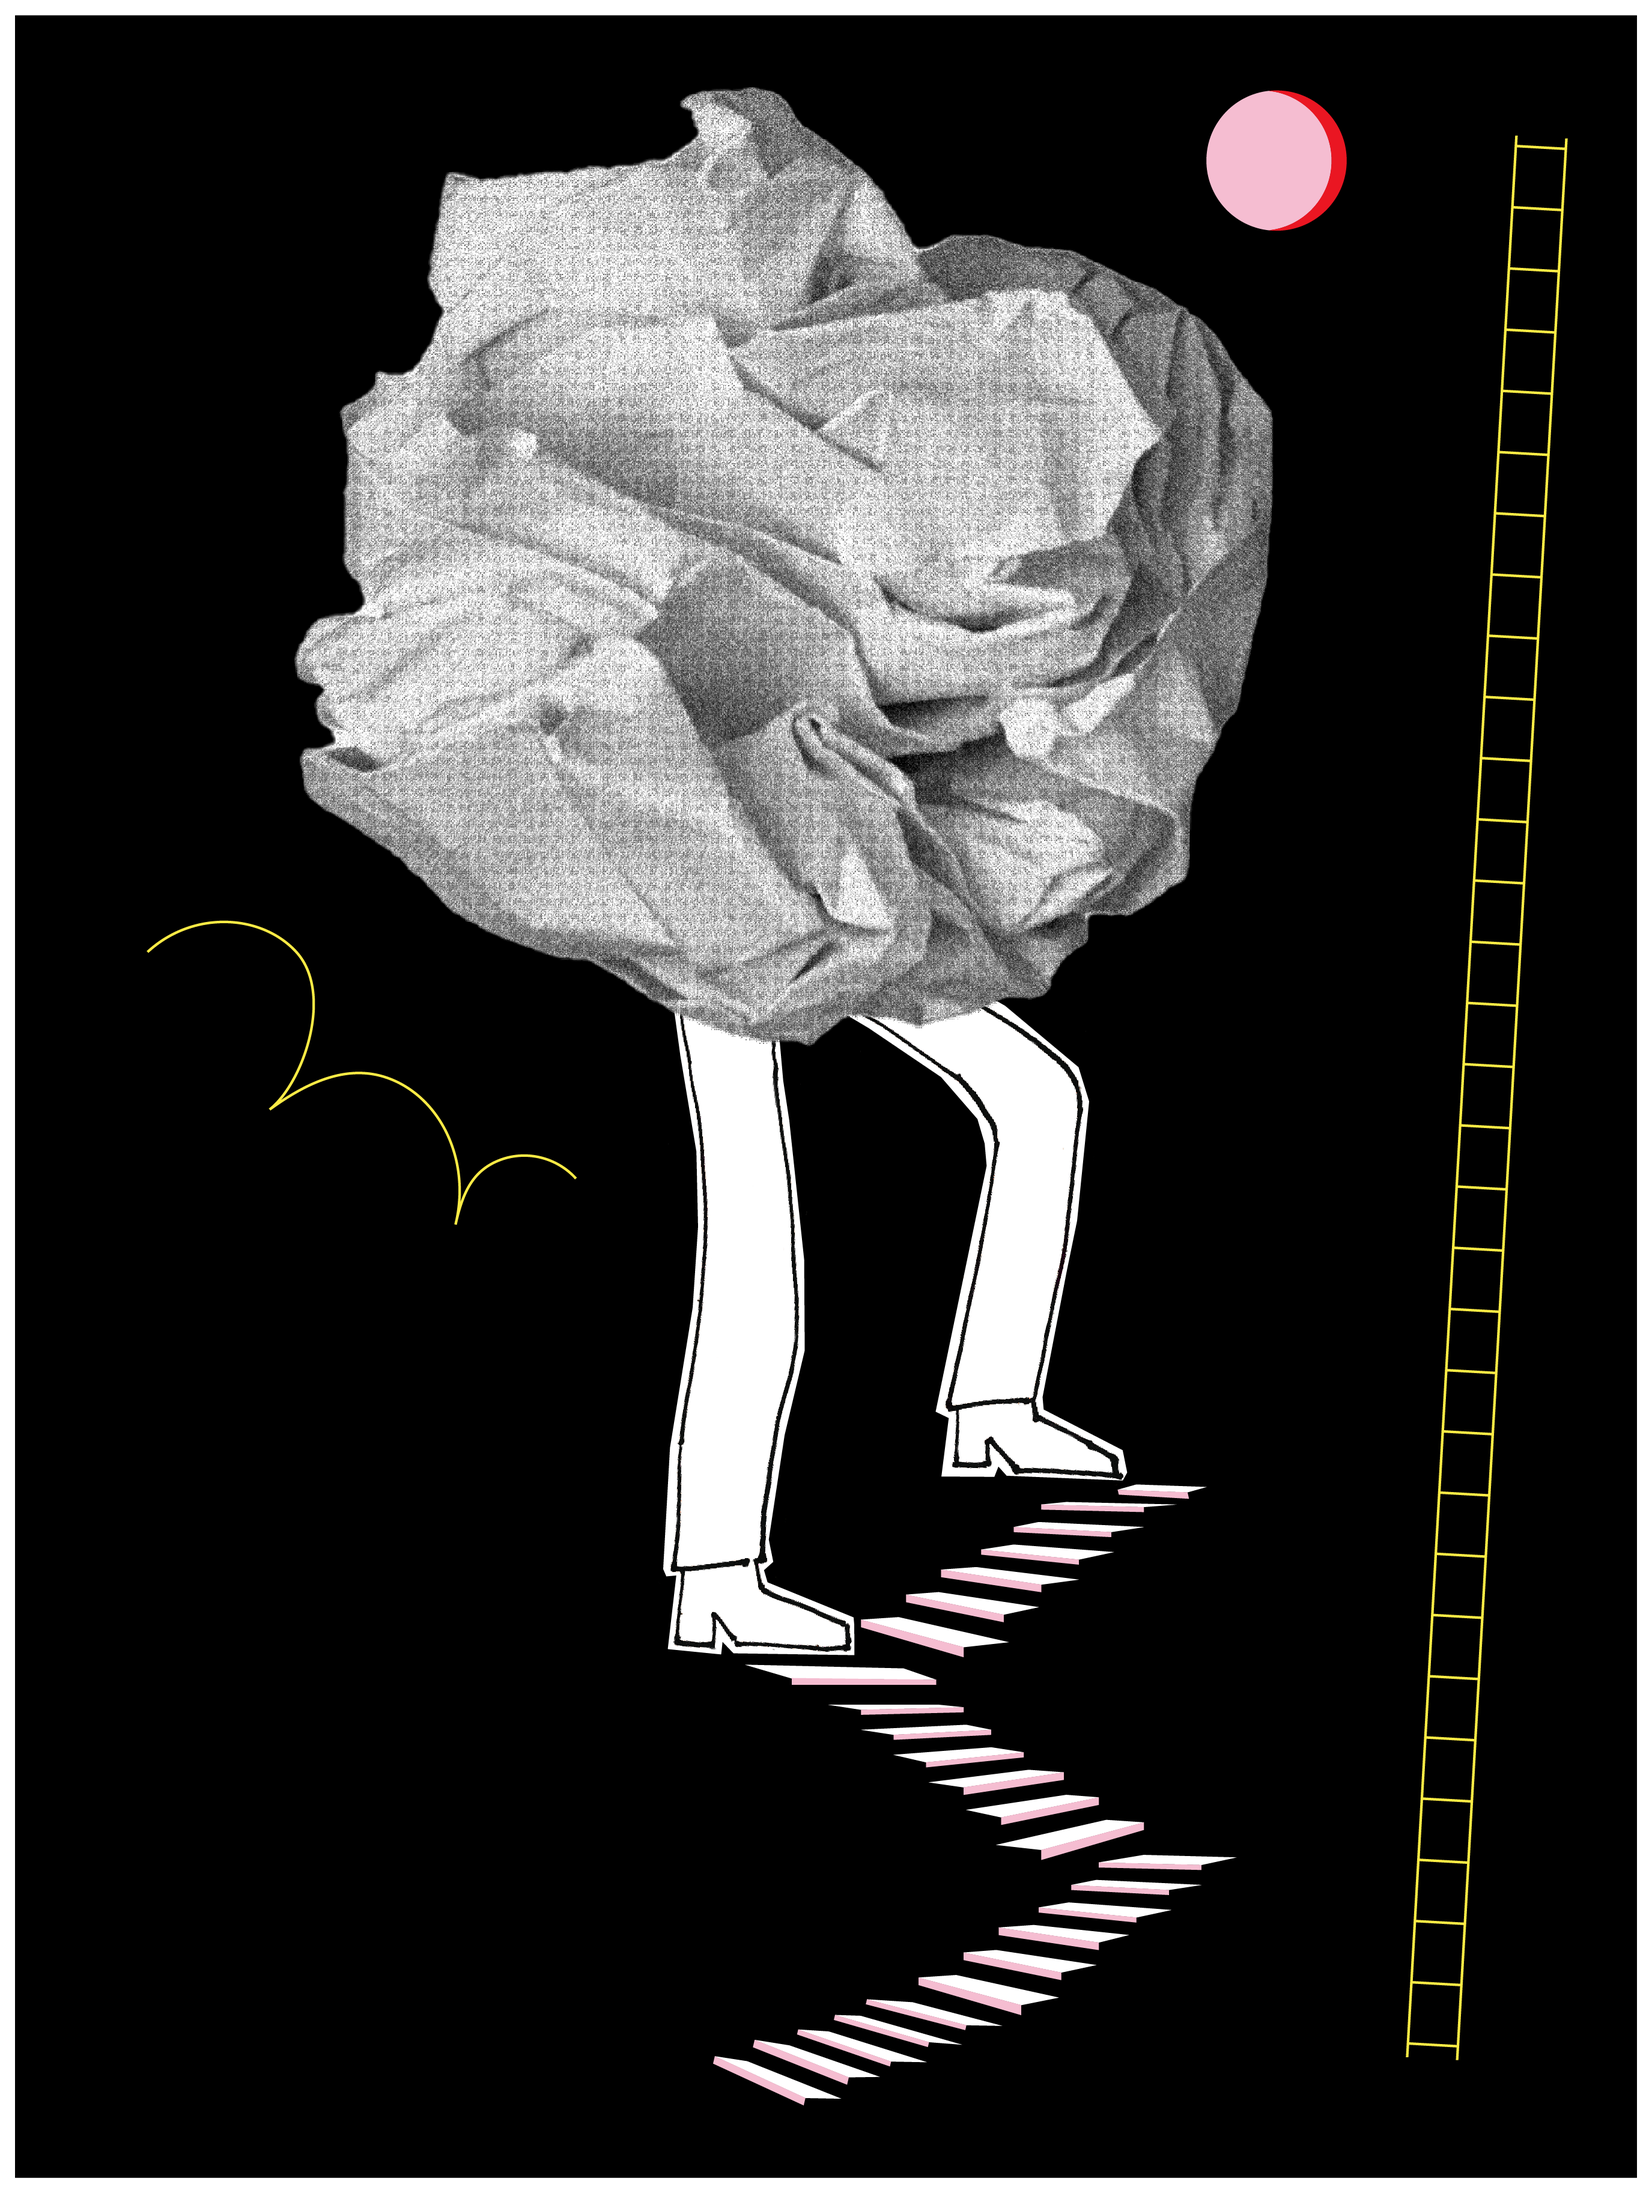
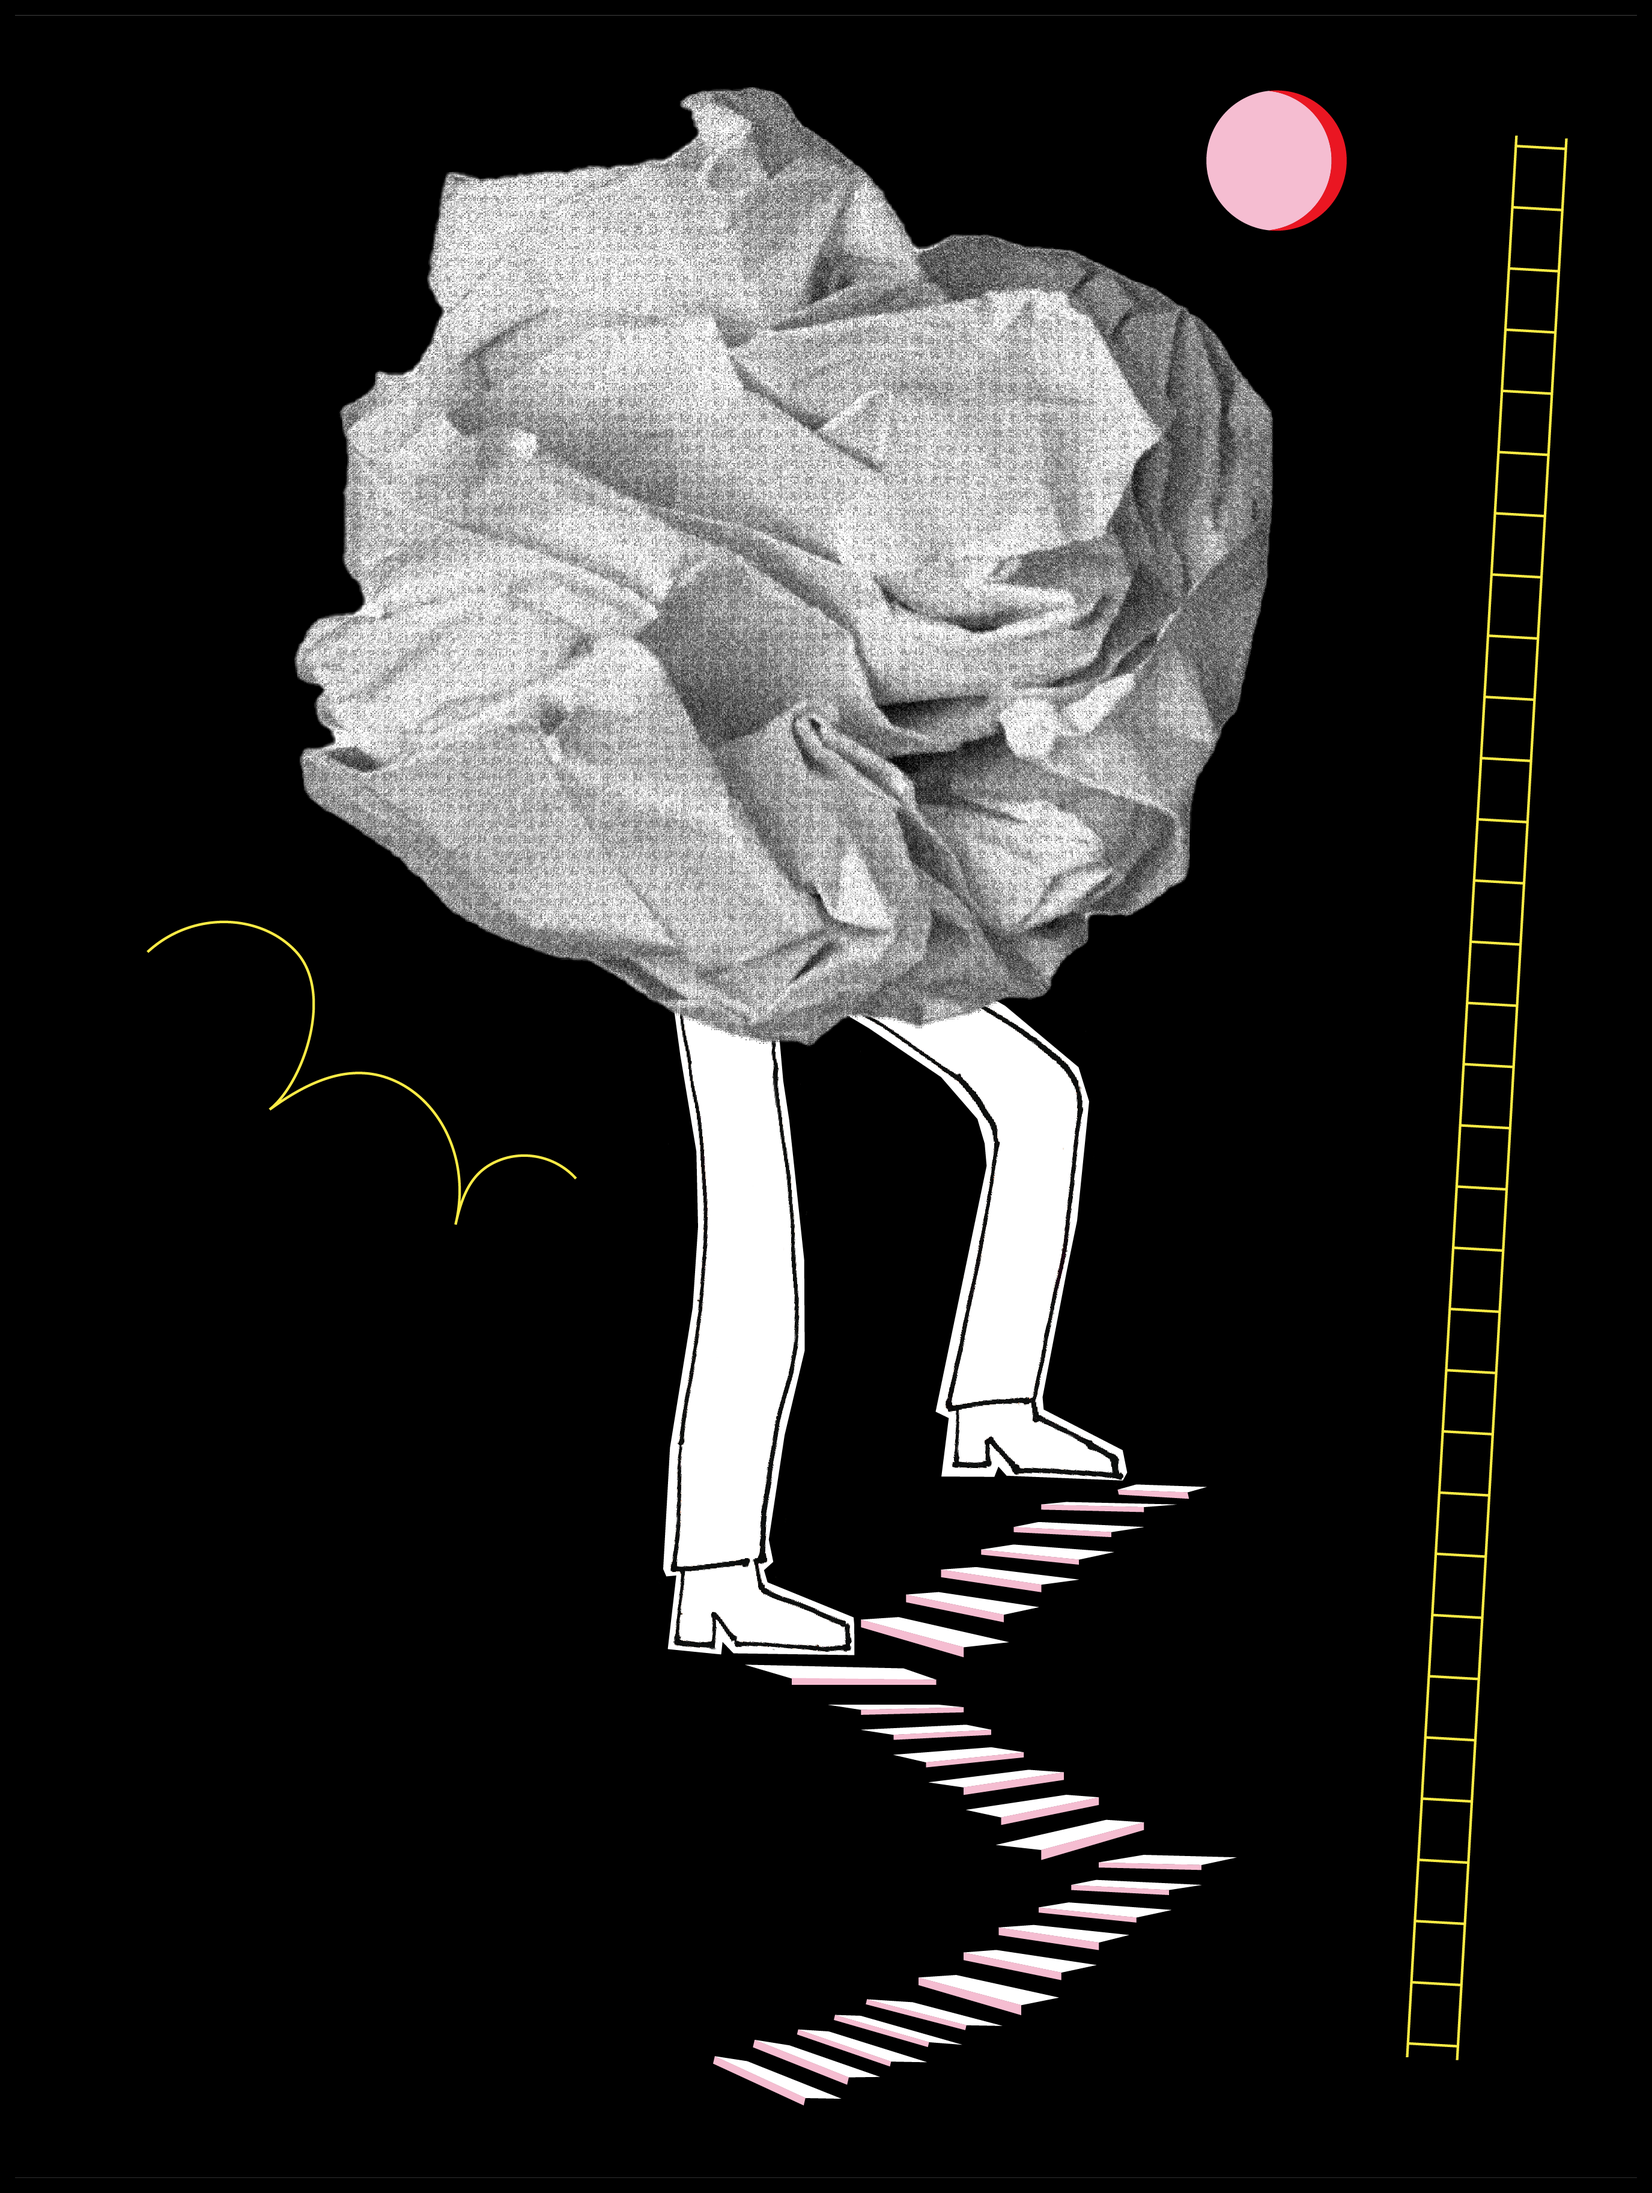
Fix black border on Png

Changed region(s): [[0.0, 0.0, 1.0, 1.0]]

diff --git a/index.html b/index.html
@@ -43,7 +43,7 @@
             container: document.getElementById('vtt_main'),
             renderer: 'svg',
             autoplay: false,
-            assetsPath: 'https://images.weserv.nl/?&w=500&url=https://thipokch.github.io/2020-VisualTelephoneTag/images/',
+            assetsPath: 'https://images.weserv.nl/?&w=' + Math.ceil(window.innerWidth / 1500) * 500+ '&url=https://thipokch.github.io/2020-VisualTelephoneTag/images-border/',
             path: 'https://thipokch.github.io/2020-VisualTelephoneTag/vtt_main.json'
         })
     </script>
